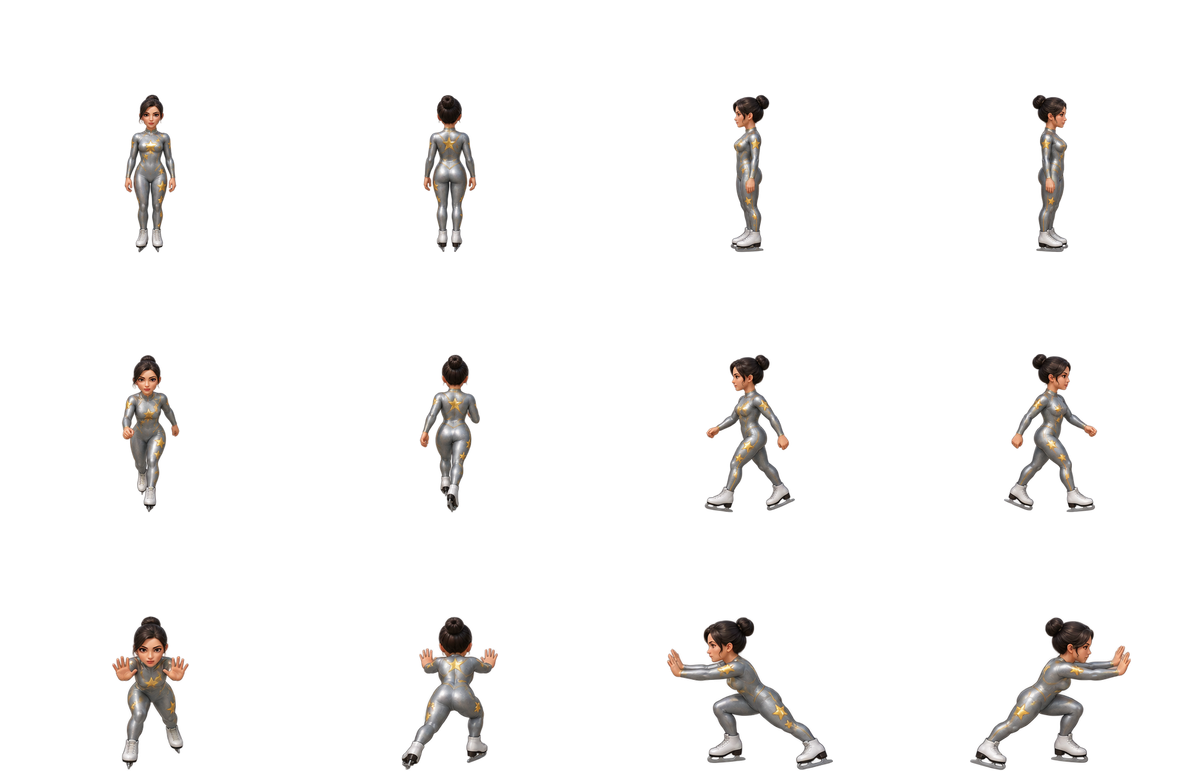
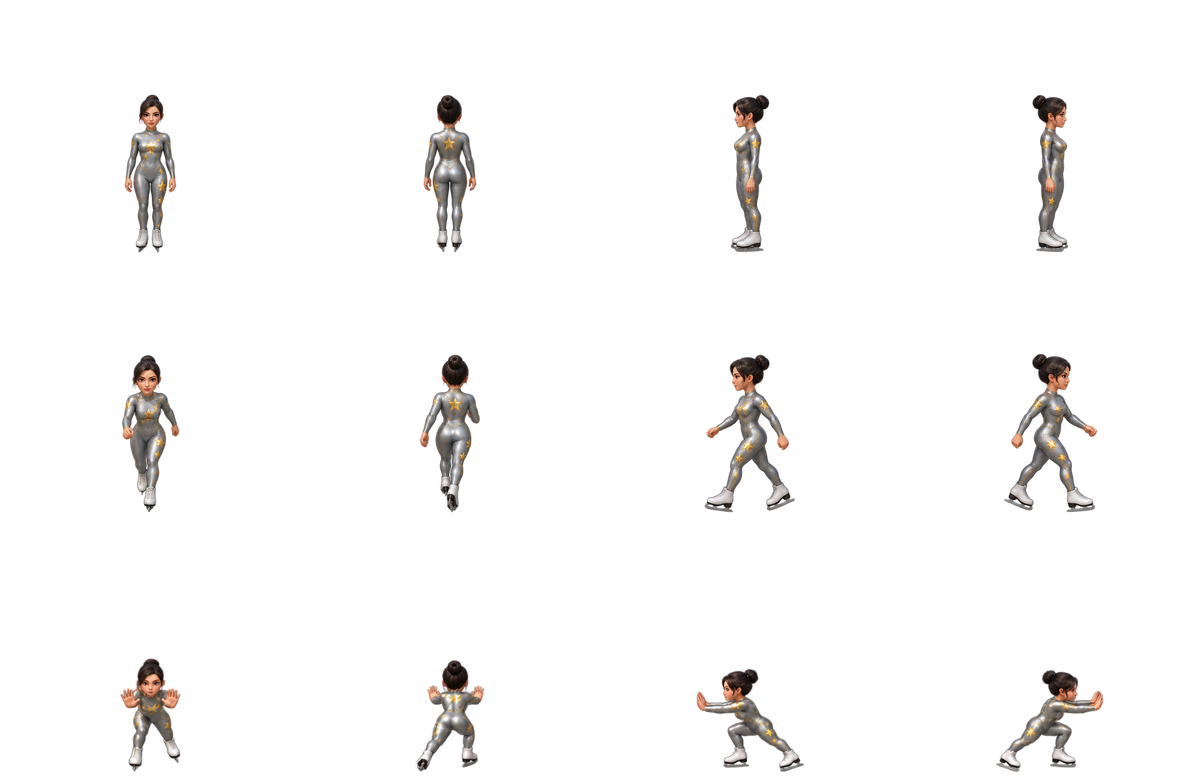
v407
Fixed — Player Profile editor: clicking “Say something about yourself…” no longer moves the username. The editor now occupies the same reserved row as the placeholder instead of adding a new block beneath it.
Fixed — leaderboard avatars: rows now provide proper vertical space for the larger avatar. The character is centred within that space and the row separator sits clear of it instead of cutting across the sprite.
Replaced — Clara: your newly attached Ice Skater file has been explicitly copied to:- assets/characters/clara/base.png

Verified: the Clara file in the ZIP is byte-for-byte identical to the file you just supplied.
Preserved: leaderboard profile clicking, Fastest Time/Fewest Moves switching, keyboard-input protection and all v406 behaviour.

diff --git a/styles.css b/styles.css
@@ -7930,7 +7930,7 @@ html.touch-ui .dpad button {
   box-shadow:inset 0 0 0 2px rgba(0,0,0,.1);
 }
 .player-profile-hero canvas{display:block;width:160%;height:auto;max-width:none;transform:translateY(-30%);transform-origin:center center}
-.player-profile-bio-row{display:grid;grid-template-columns:minmax(0,1fr);align-items:start;gap:5px;margin-top:11px;min-height:28px}
+.player-profile-bio-row{display:grid;grid-template-columns:minmax(0,1fr);align-items:center;gap:5px;margin-top:11px;min-height:36px}
 .player-profile-bio{width:fit-content;max-width:100%;min-width:0;margin:0;font-size:14px;line-height:1.38;font-weight:800;font-style:italic;color:#4d4842;overflow-wrap:anywhere}
 .player-profile-bio.is-placeholder{color:#8a8177;font-weight:750}
 .player-profile-bio.is-editable{cursor:pointer}
@@ -7966,25 +7966,47 @@ html.touch-ui .dpad button {
 }
 
 
-/* BOXXY v406 — stable profile editing and centred leaderboard avatars. */
+/* BOXXY v407 — stable inline profile editing and leaderboard avatar row geometry. */
+.daily-leaderboard-card>.daily-leaderboard-list .daily-leaderboard-row{
+  min-height:50px;
+  padding-top:6px;
+  padding-bottom:6px;
+}
 .daily-leaderboard-card>.daily-leaderboard-list .daily-leaderboard-profile-link .daily-leaderboard-avatar-frame{
-  width:40px;height:36px;margin:-1px 2px -1px 0;overflow:hidden;align-self:center;
+  width:38px;height:38px;margin:0 3px 0 0;overflow:hidden;align-self:center;display:grid;place-items:center;
 }
 .daily-leaderboard-card>.daily-leaderboard-list .daily-leaderboard-profile-link .daily-leaderboard-avatar{
-  width:56px;height:auto;max-width:none;transform:translateY(-18%);
+  display:block;width:auto;height:50px;max-width:none;transform:translateY(-10%);transform-origin:center center;
 }
+.player-profile-bio-row{min-height:36px;position:relative}
 .player-profile-bio-form{
-  margin-top:8px;padding:0;border:0;border-radius:0;background:transparent;
-  grid-template-columns:minmax(0,1fr) auto;align-items:center;gap:6px;
+  width:100%;min-width:0;margin:0;padding:0;border:0;border-radius:0;background:transparent;
+  grid-template-columns:minmax(0,1fr) auto;align-items:center;gap:5px;
 }
+.player-profile-bio-form[hidden]{display:none}
 .player-profile-bio-form label{position:absolute;width:1px;height:1px;padding:0;margin:-1px;overflow:hidden;clip:rect(0 0 0 0);white-space:nowrap;border:0}
-.player-profile-bio-form input{min-width:0;padding:7px 9px;border:1px solid rgba(23,23,25,.55);border-radius:8px;font-size:12px}
-.player-profile-bio-form-actions{min-width:max-content;gap:5px}
-.player-profile-bio-form-actions span{font-size:7px;margin-right:1px}
-.player-profile-bio-form-actions button{padding:6px 7px;border-radius:7px;font-size:7px}
+.player-profile-bio-form input{min-width:0;padding:7px 8px;border:1px solid rgba(23,23,25,.55);border-radius:8px;font-size:12px}
+.player-profile-bio-form-actions{min-width:max-content;gap:4px}
+.player-profile-bio-form-actions span{font-size:7px;margin-right:0}
+.player-profile-bio-form-actions button{padding:6px 6px;border-radius:7px;font-size:7px}
+@media(max-width:820px){
+  .daily-leaderboard-card>.daily-leaderboard-list .daily-leaderboard-row{min-height:48px}
+  .daily-leaderboard-card>.daily-leaderboard-list .daily-leaderboard-profile-link .daily-leaderboard-avatar-frame{width:36px;height:36px;margin-right:2px}
+  .daily-leaderboard-card>.daily-leaderboard-list .daily-leaderboard-profile-link .daily-leaderboard-avatar{height:47px;transform:translateY(-10%)}
+}
 @media(max-width:620px){
-  .daily-leaderboard-card>.daily-leaderboard-list .daily-leaderboard-profile-link .daily-leaderboard-avatar-frame{width:36px;height:33px;margin-right:1px}
-  .daily-leaderboard-card>.daily-leaderboard-list .daily-leaderboard-profile-link .daily-leaderboard-avatar{width:51px}
-  .player-profile-bio-form{grid-template-columns:minmax(0,1fr);gap:5px}
-  .player-profile-bio-form-actions{justify-content:flex-start}
+  .daily-leaderboard-card>.daily-leaderboard-list .daily-leaderboard-row{min-height:46px;padding-top:5px;padding-bottom:5px}
+  .daily-leaderboard-card>.daily-leaderboard-list .daily-leaderboard-profile-link .daily-leaderboard-avatar-frame{width:34px;height:34px;margin-right:2px}
+  .daily-leaderboard-card>.daily-leaderboard-list .daily-leaderboard-profile-link .daily-leaderboard-avatar{height:44px;transform:translateY(-10%)}
+  .player-profile-bio-form{grid-template-columns:minmax(0,1fr) auto;gap:4px}
+  .player-profile-bio-form input{padding:6px 7px;font-size:11px}
+  .player-profile-bio-form-actions{gap:3px}
+  .player-profile-bio-form-actions span{font-size:6.5px}
+  .player-profile-bio-form-actions button{padding:5px 5px;font-size:6.5px}
+}
+@media(max-width:380px){
+  .daily-leaderboard-card>.daily-leaderboard-list .daily-leaderboard-row{min-height:44px}
+  .daily-leaderboard-card>.daily-leaderboard-list .daily-leaderboard-profile-link .daily-leaderboard-avatar-frame{width:32px;height:32px}
+  .daily-leaderboard-card>.daily-leaderboard-list .daily-leaderboard-profile-link .daily-leaderboard-avatar{height:42px}
+  .player-profile-bio-form-actions span{display:none}
 }

diff --git a/index.html b/index.html
@@ -159,7 +159,7 @@
     document.documentElement.classList.add("ios-standalone");
   }
 </script>
-<link rel="stylesheet" href="styles.css?v=406">
+<link rel="stylesheet" href="styles.css?v=407">
 <link rel="stylesheet" href="how-to-play.css?v=225">
 <link rel="preload" as="image" href="assets/board/boxes/box-default-yellow.png?v=226">
 <link rel="preload" as="image" href="assets/board/goals/goal-red.png?v=226">
@@ -771,16 +771,16 @@
         <div class="player-profile-bio-row">
           <p id="playerProfileBio" class="player-profile-bio" hidden></p>
           <button id="playerProfileBioEditBtn" class="player-profile-bio-edit" type="button" hidden>EDIT</button>
+          <form id="playerProfileBioForm" class="player-profile-bio-form" hidden>
+            <label for="playerProfileBioInput">PUBLIC COMMENT</label>
+            <input id="playerProfileBioInput" type="text" autocomplete="off" inputmode="text" aria-describedby="playerProfileBioCount" />
+            <div class="player-profile-bio-form-actions">
+              <span id="playerProfileBioCount">0 / 50</span>
+              <button id="playerProfileBioCancelBtn" type="button">CANCEL</button>
+              <button type="submit">SAVE</button>
+            </div>
+          </form>
         </div>
-        <form id="playerProfileBioForm" class="player-profile-bio-form" hidden>
-          <label for="playerProfileBioInput">PUBLIC COMMENT</label>
-          <input id="playerProfileBioInput" type="text" autocomplete="off" inputmode="text" aria-describedby="playerProfileBioCount" />
-          <div class="player-profile-bio-form-actions">
-            <span id="playerProfileBioCount">0 / 50</span>
-            <button id="playerProfileBioCancelBtn" type="button">CANCEL</button>
-            <button type="submit">SAVE</button>
-          </div>
-        </form>
       </div>
     </div>
     <div id="playerProfileStats" class="player-profile-stats">
@@ -1500,7 +1500,7 @@
 <script src="daily-puzzles/boxxy-daily-loader.js?v=357"></script>
 <script src="levels.js?v=372"></script>
 <script src="starry-night.js?v=302"></script>
-<script src="boxxy.js?v=406"></script>
+<script src="boxxy.js?v=407"></script>
 <script src="attempt-history.js?v=394"></script>
 <script src="attempt-history-ui.js?v=395"></script>
 <script src="account.js?v=404"></script>

diff --git a/boxxy.js b/boxxy.js
@@ -1,4 +1,4 @@
-/* BOXXY v406: protect text-entry keyboard focus, keep leaderboard sort stable across account sync, and refine leaderboard avatars. */
+/* BOXXY v407: keep profile bio editing geometrically stable and give full leaderboard avatars dedicated row space. */
 /* BOXXY v405: profile avatar crop, trophy tooltips, inline bio placeholder and clean clickable leaderboard names. */
 /* BOXXY v404: redesigned public profiles, full-resolution avatars, visual trophies, streak and in-place bio editing. */
 /* BOXXY v403: clickable Daily leaderboard public profiles with current avatar and public stats. */
@@ -10,7 +10,7 @@
 /* Single source of truth for the public release information.
    Update only this object when a new BOXXY version is published. */
 window.BOXXY_RELEASE = Object.freeze({
-  version: "406",
+  version: "407",
   lastUpdated: "2026-09-29"
 });
 /* BOXXY v402: Daily leaderboards display each signed-in player’s current cloud-synced avatar beside their username. */

diff --git a/service-worker.js b/service-worker.js
@@ -1,4 +1,4 @@
-/* BOXXY v406: text-entry keyboard protection, stable leaderboard sorting and centred leaderboard avatars. */
+/* BOXXY v407: stable profile bio geometry, corrected leaderboard avatar spacing and refreshed Clara asset. */
 /* BOXXY v405: profile avatar crop, trophy tooltips, inline bio placeholder and clean leaderboard profile links. */
 /* BOXXY v404: redesigned public player profiles and profile-modal bio editing. */
 /* BOXXY v403: public player profiles, safe bios and synthetic avatar administration. */
@@ -20,7 +20,7 @@
 "use strict";
 
 const CACHE_NAME = "boxxy-offline-v2";
-const RELEASE_VERSION = "406";
+const RELEASE_VERSION = "407";
 const META_URL = "/__boxxy_offline_meta__";
 const OFFLINE_ENTRY = "/index.html";
 const ASSETS = [
